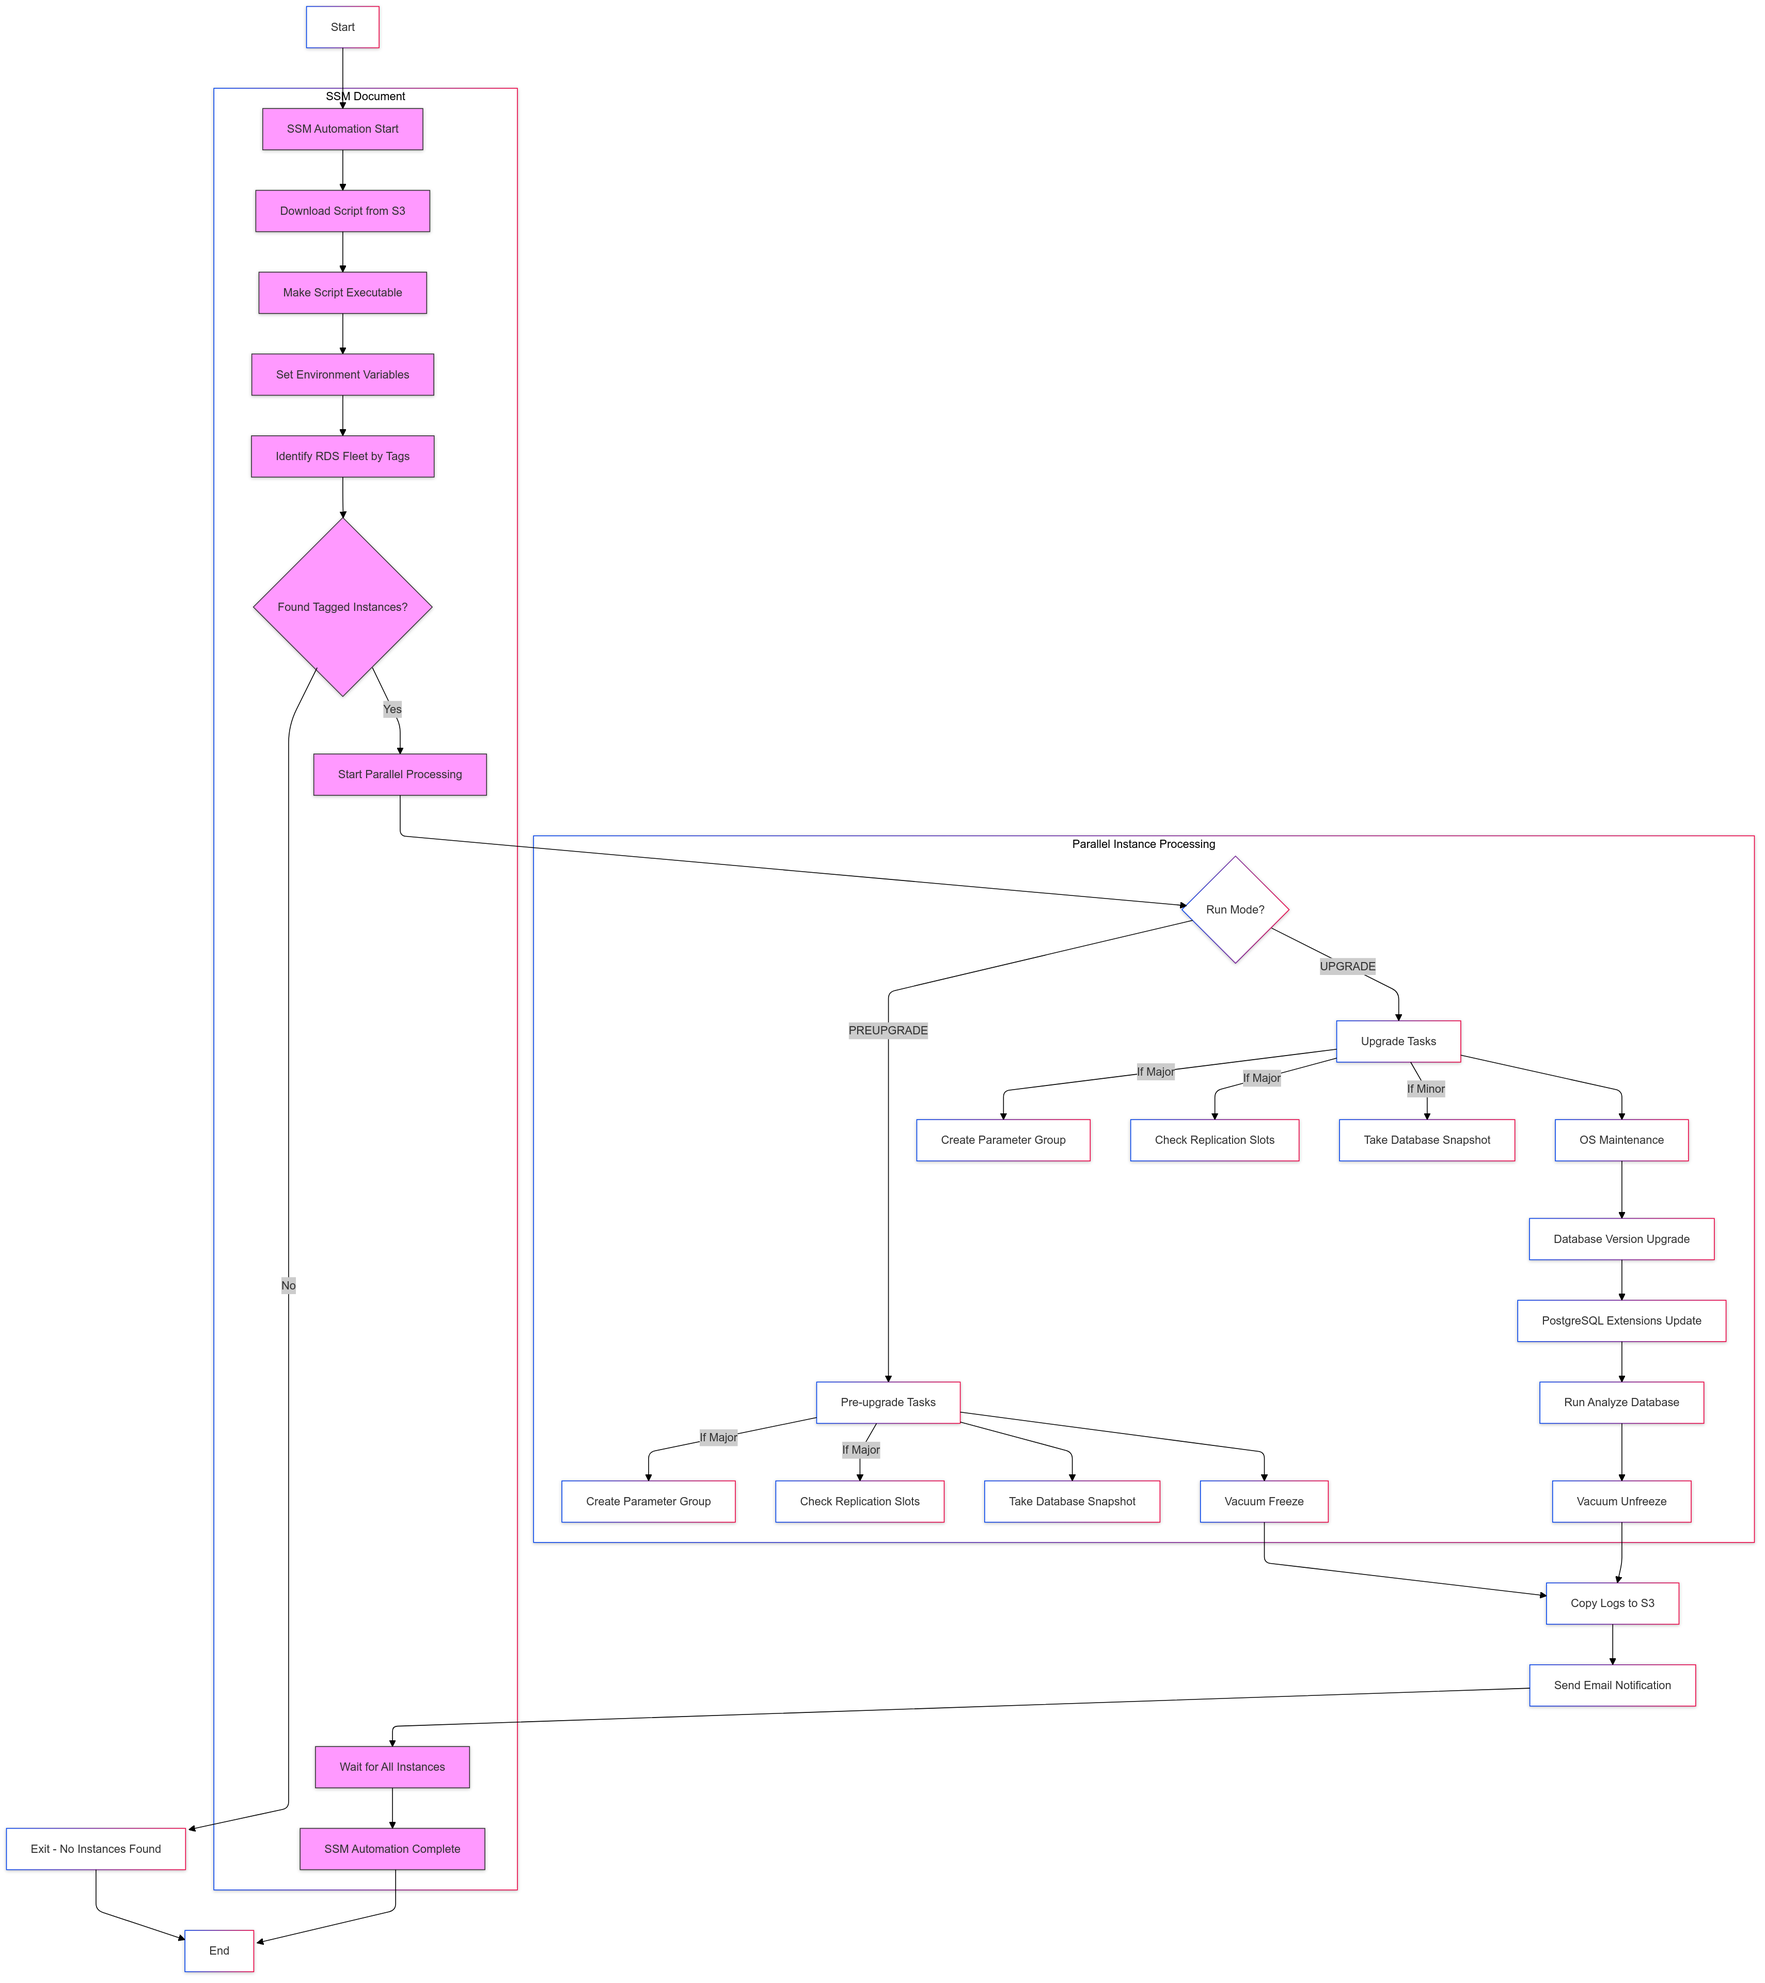
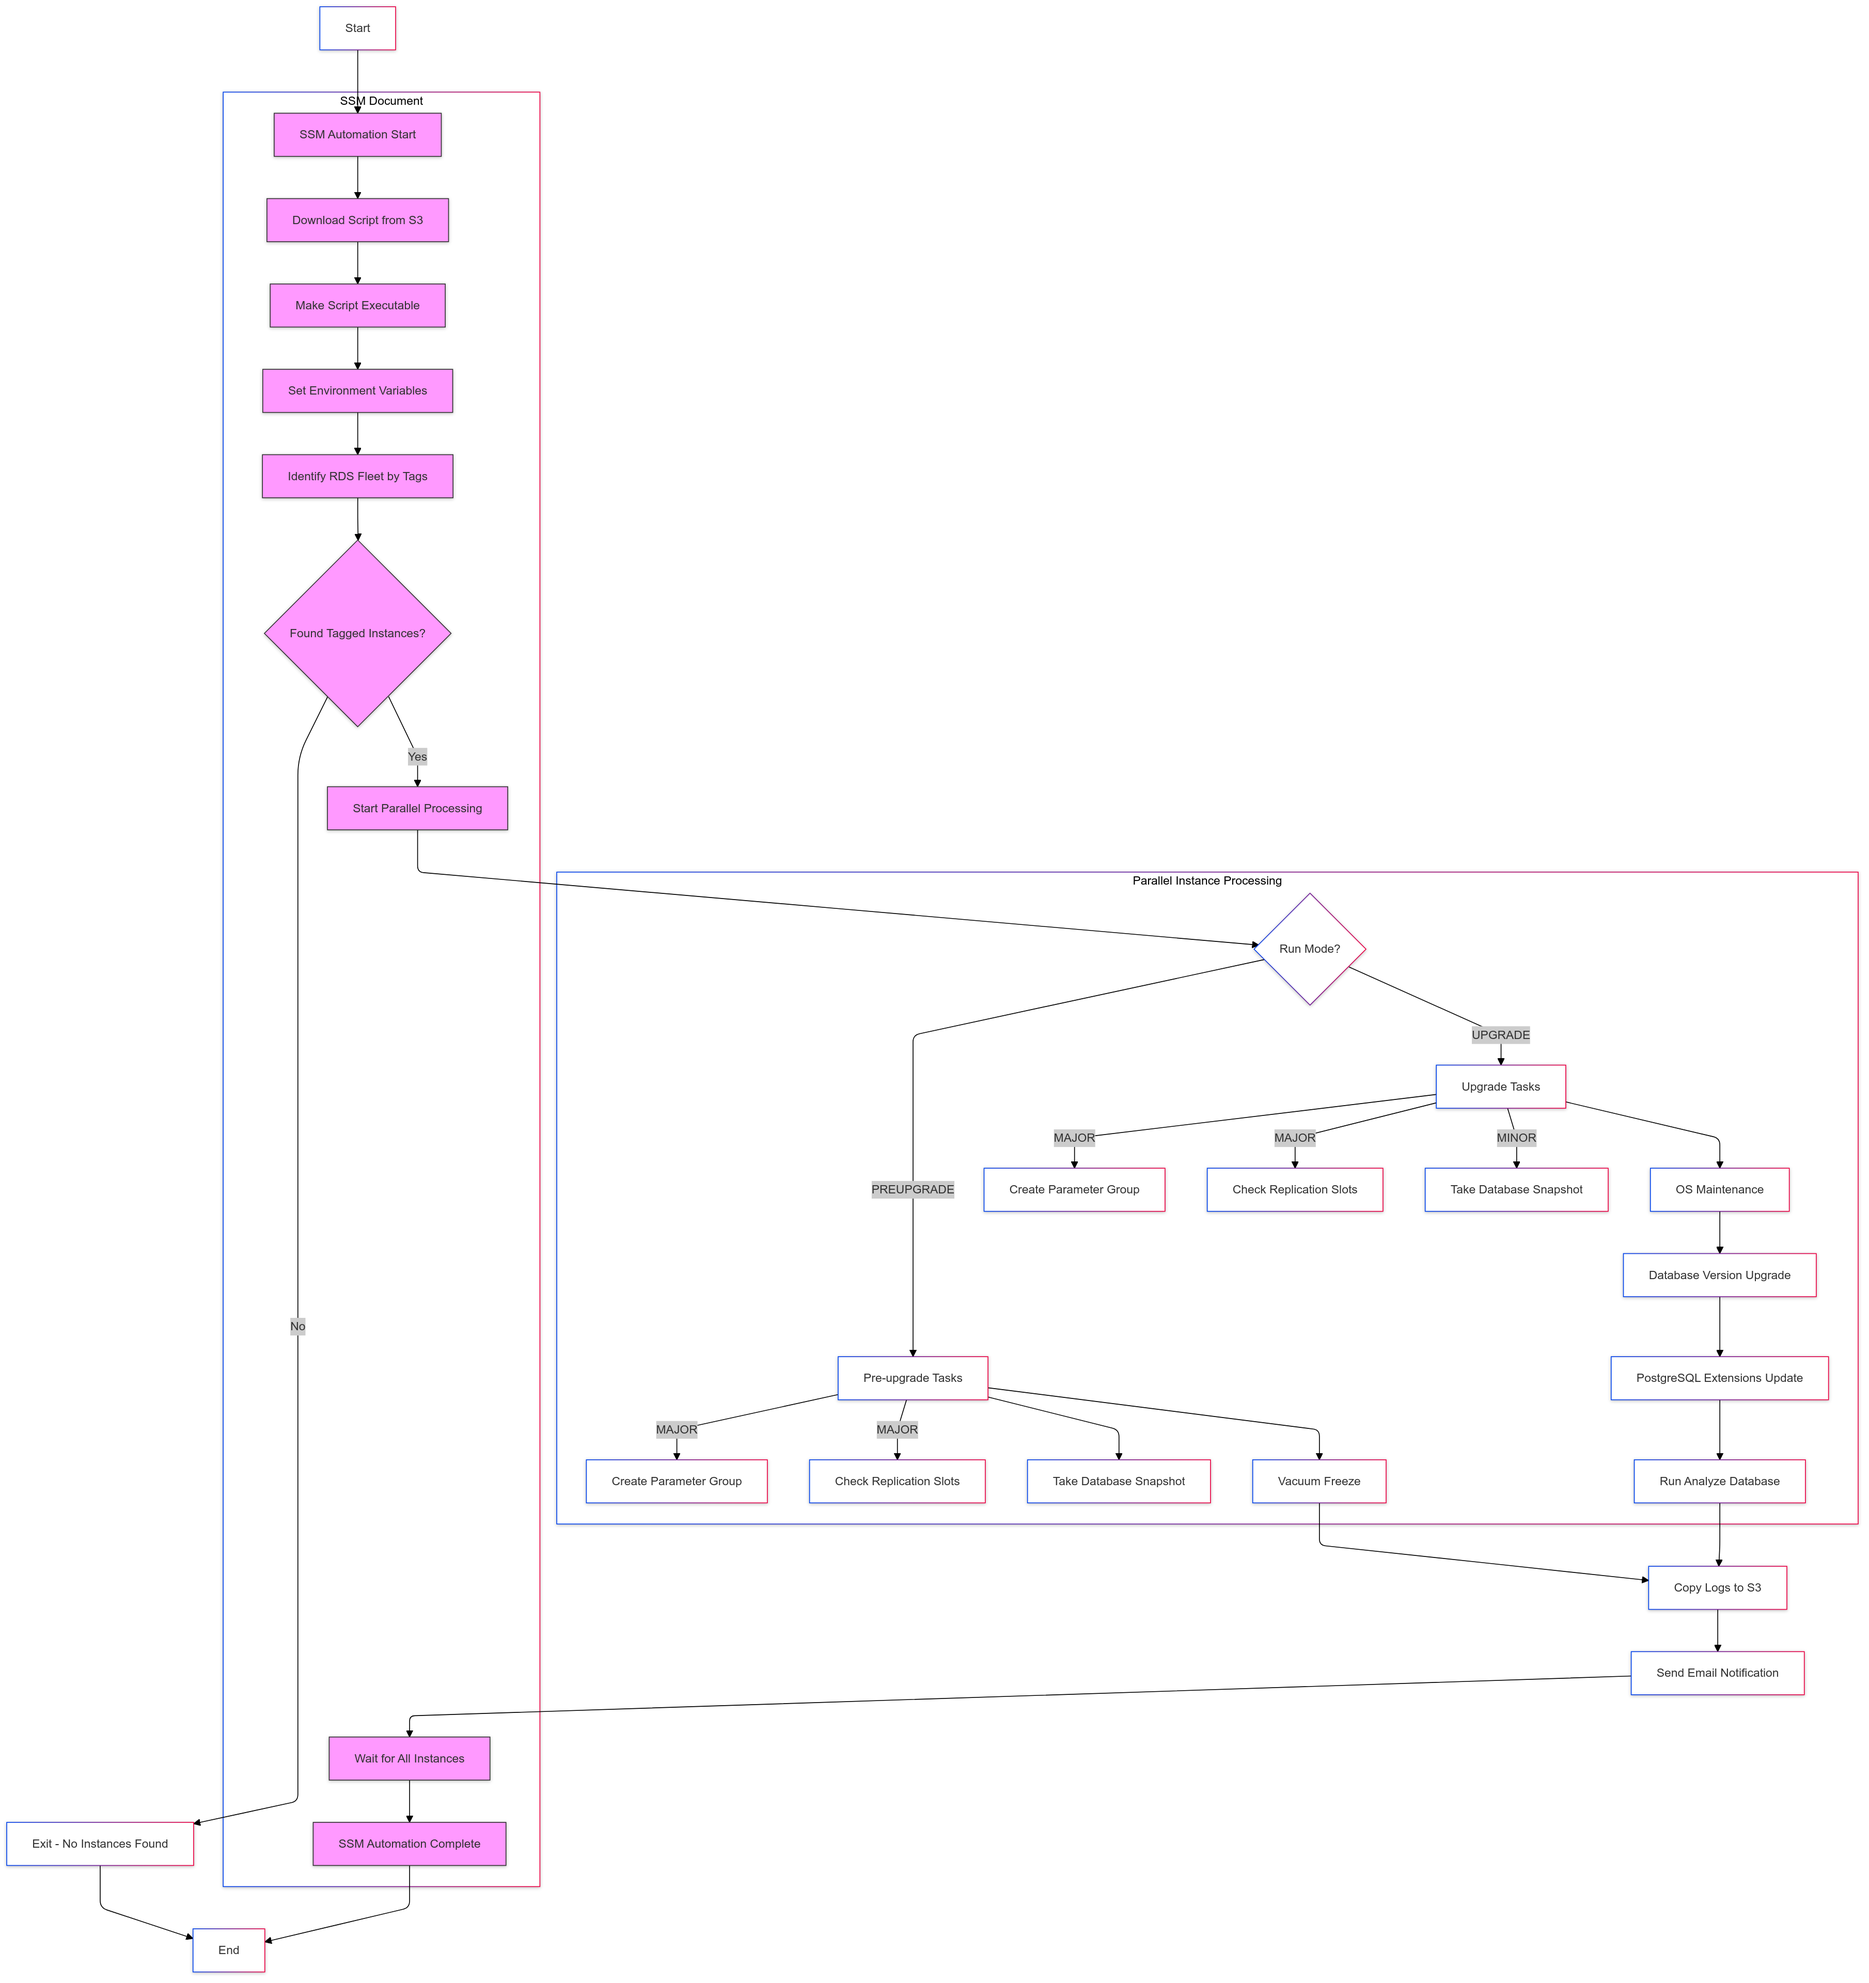
few additional changes
logging and cosmetics related

diff --git a/README.md b/README.md
@@ -86,9 +86,8 @@ This repository will guide you through setting up automation for pre-upgrade che
       4. OS maintenance (pending maintenance)
       5. Database version upgrade
       6. PostgreSQL extensions update
-      7. Run analyze database
-      8. Vacuum unfreeze.
-
+      7. Run analyze database.
+      
 <br>
 
 <details>
@@ -310,7 +309,6 @@ Below log files will be generated in the logs directory for each option
 | Replication Slot Log | Log of replication slot operation (major upgrades only) | replication_slot_20230615-14-30-45.log |
 | Extension Update Log | Log of PostgreSQL extension updates | update_db_extensions_20230615-14-30-45.log |
 | Analyze Task Log | Log of ANALYZE command execution | run_db_task_analyze-20230615-14-30-45.log |
-| Unfreeze Task Log | Log of VACUUM (unfreeze) command execution | run_db_task_unfreeze-20230615-14-30-45.log |
 
 <br>
 
